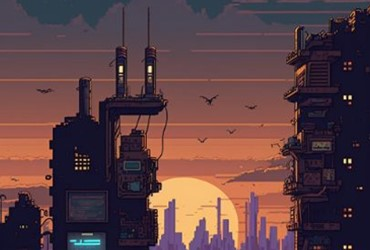
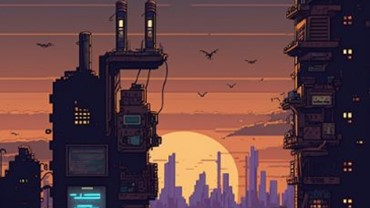
IMG Agentes

diff --git a/index.html b/index.html
@@ -72,7 +72,7 @@
 								</ul>
 							</article>
 							<article class="col-6 col-12-xsmall work-item">
-								<a href="images/fulls/04.jpg" class="image fit thumb"><img src="images/thumbs/04.jpg" alt="" /></a>
+								<a href="images/fulls/04.jpg" class="image fit thumb"><img src="images/thumbs/miniagentes.jpg" alt="" /></a>
 								<h3>TC2008B</h3>
 								<p>Modelación de sistemas multiagentes con gráficas computacionales</p>
 								<ul class="actions">
